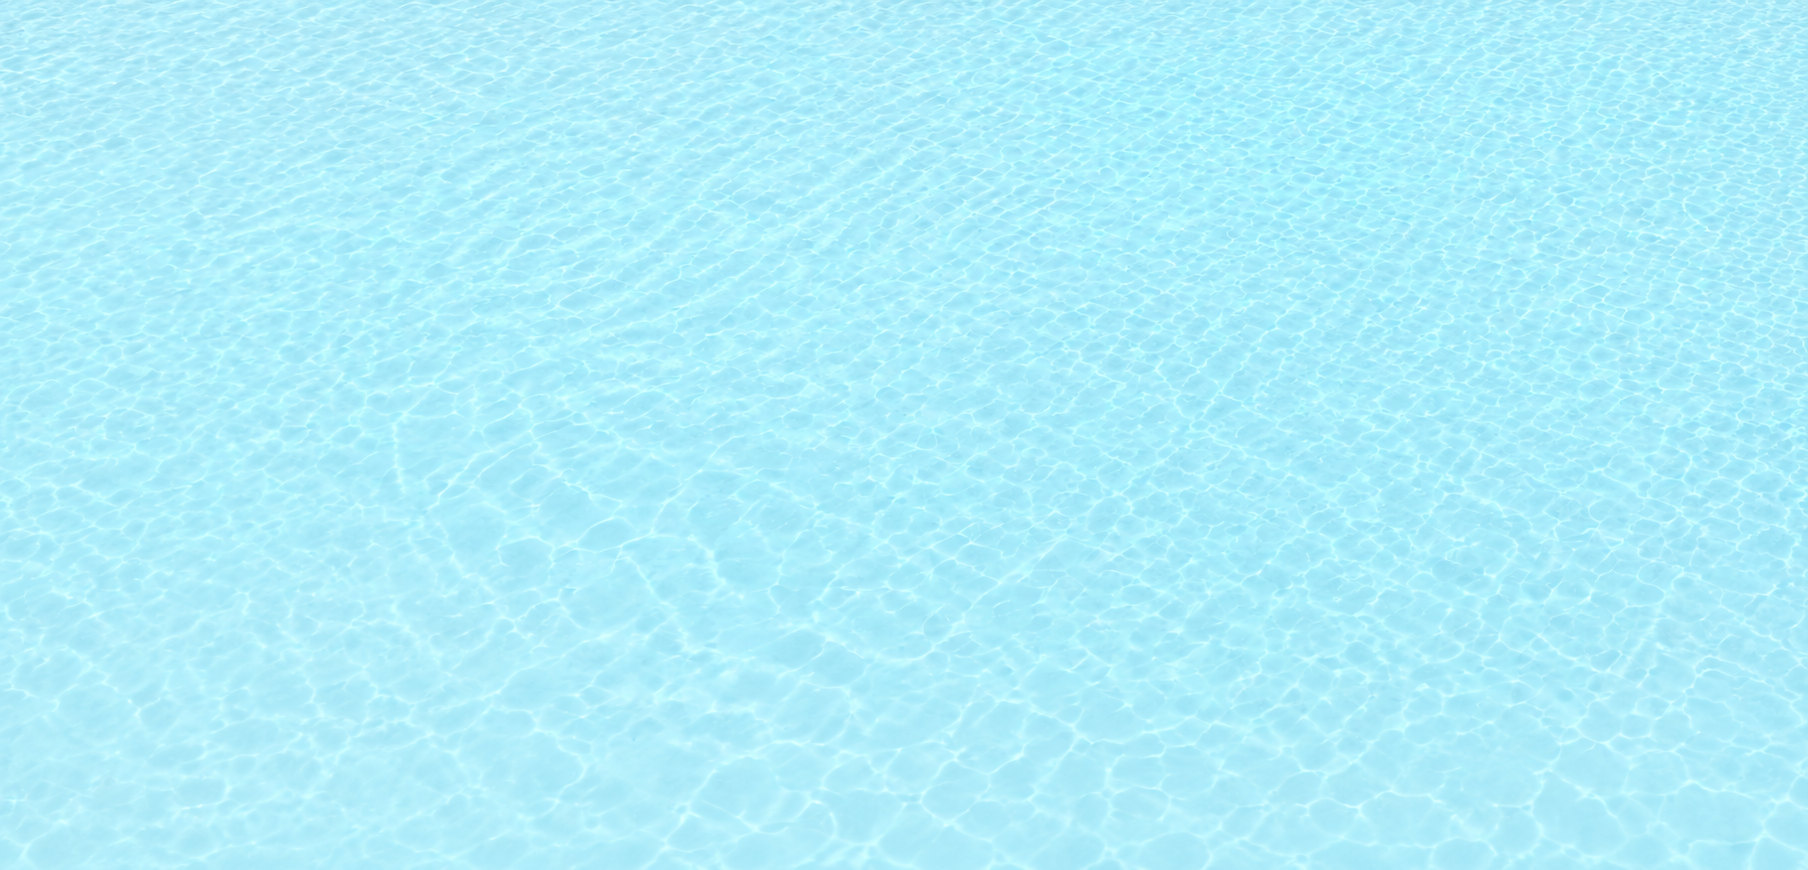
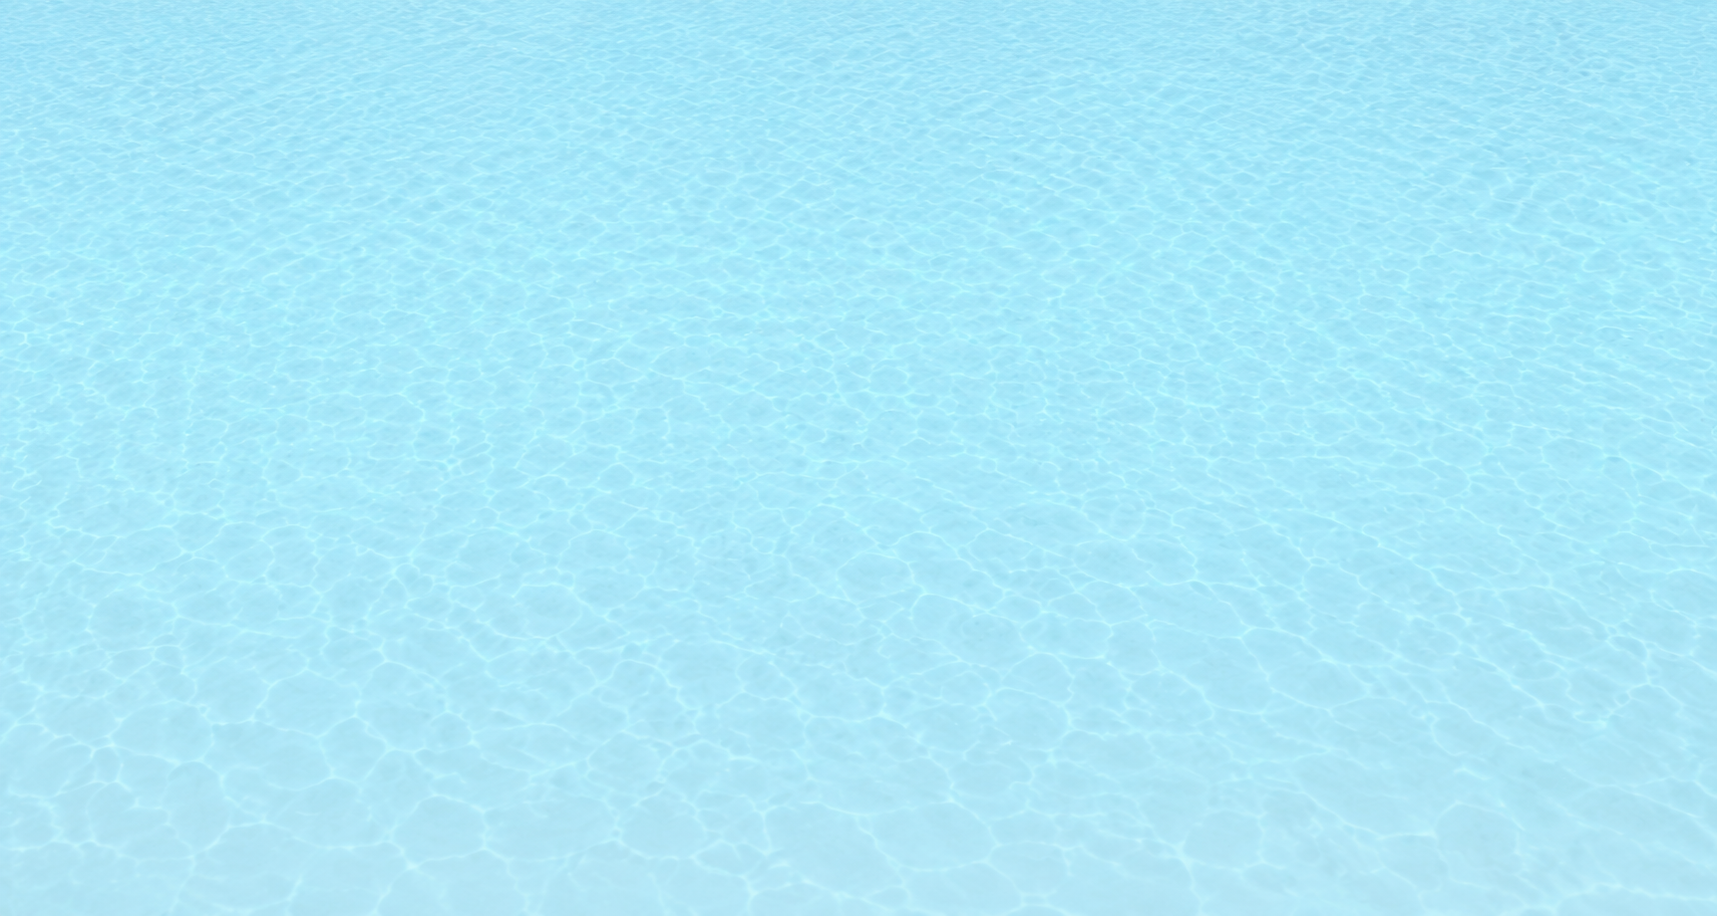
main page

diff --git a/index.html b/index.html
@@ -11,7 +11,6 @@
 <link rel="icon" type="image/x-icon" href="img/favicon.ico">
 <link rel="icon" type="image/png" sizes="32x32" href="img/favicon-32x32-v2.png">
 <link rel="icon" type="image/png" sizes="16x16" href="img/favicon-16x16-v2.png">
-<base target="_blank">
 </head>
 <body class="loading">
 <div class="loading-screen" id="loadingScreen">
@@ -94,7 +93,7 @@
 </section>
   <div class="hero-content">
   <!-- <div class="hero-3d" id="hero3d" aria-hidden="true"></div> // animation here --> 
-<div class="hero-3d" id="hero3d" aria-hidden="true" style="width:100%; max-width:560px; aspect-ratio:16/9; margin:0 auto 2rem; border-radius:12px; overflow:hidden">
+<div class="hero-3d" id="hero3d" aria-hidden="true" style="width:100%; max-width:560px; aspect-ratio:16/9; margin:0 auto 2rem;">
   <video autoplay muted loop playsinline style="width:100%; height:100%; object-fit:cover; display:block;">
     <source src="https://res.cloudinary.com/a07iptoj/video/upload/v1784728489/animation_2_mjty4c.mp4" type="video/mp4">
   </video>
@@ -291,15 +290,7 @@
     </span>
     <span class="carousel-caption">SHK Floating Turbine in IIT Roorkee</span>
   </button>
-  <button class="carousel-slide" data-video="https://res.cloudinary.com/a07iptoj/video/upload/v1784731898/Industrial_Cooling_Water_Canal_compressed_sttl4y.mp4">
-  <img src="./img/Fixed_type_surface_hydro_kinetic_turbine.png" alt="IIT Roorkee Project">
-    <span class="carousel-play">
-      <svg viewBox="0 0 24 24" width="22" height="22" fill="currentColor">
-        <path d="M8 5v14l11-7z"/>
-      </svg>
-    </span>
-    <span class="carousel-caption">SHKT Turbine Proposal at Yanbu3 Power Plant</span>
-  </button>
+
 </div>
 
       <button class="carousel-arrow carousel-arrow--next" aria-label="Next">

diff --git a/style.css b/style.css
@@ -1536,17 +1536,9 @@ a{ text-decoration:none; color:inherit; }
   height: 480px;
   z-index: 2;
   pointer-events: none;
-  border-radius: 20px;
   overflow: hidden;
-  box-shadow: 0 20px 60px rgba(15,23,42,0.12);
 }
-.hero-3d::after{
-  content:"";
-  position:absolute;
-  inset:0;
-  background: radial-gradient(ellipse at center, transparent 40%, rgba(255,255,255,0.9) 100%);
-  pointer-events:none;
-}
+
 
 /* ===== ABOUT CARD ARROW ===== */
 .about-card-arrow {